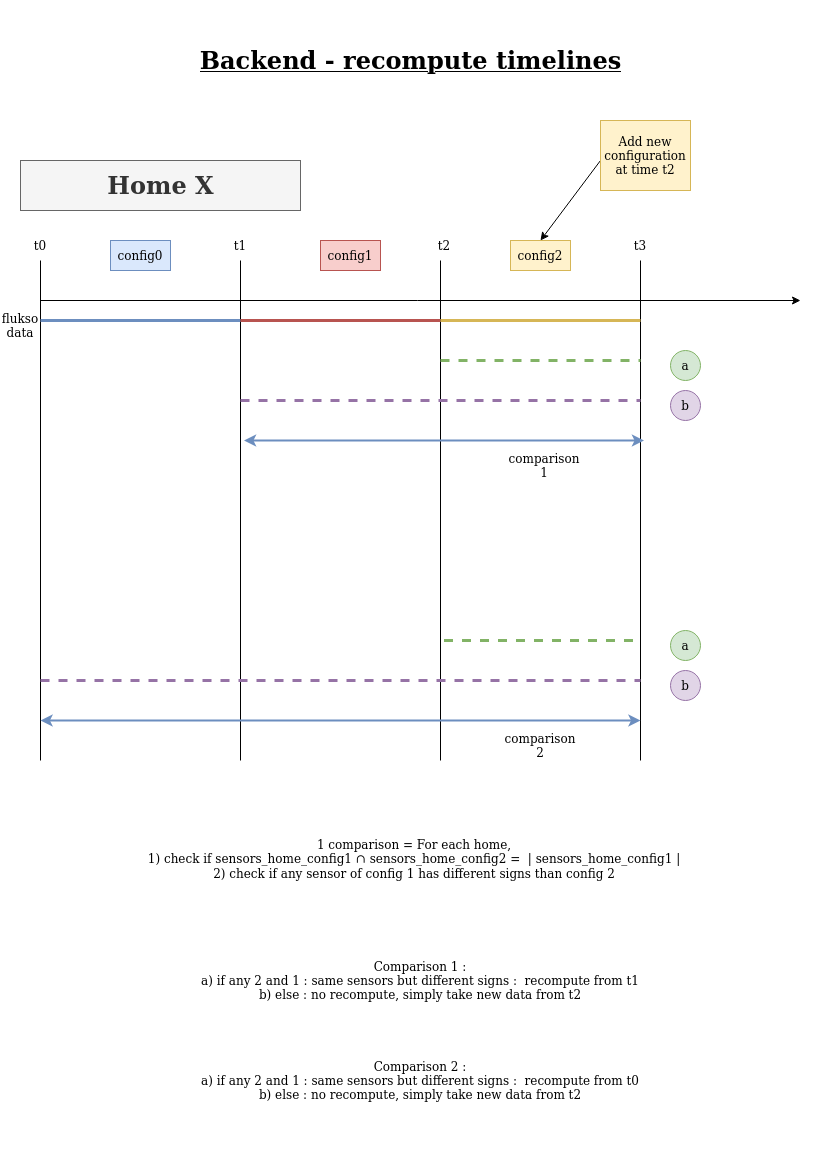
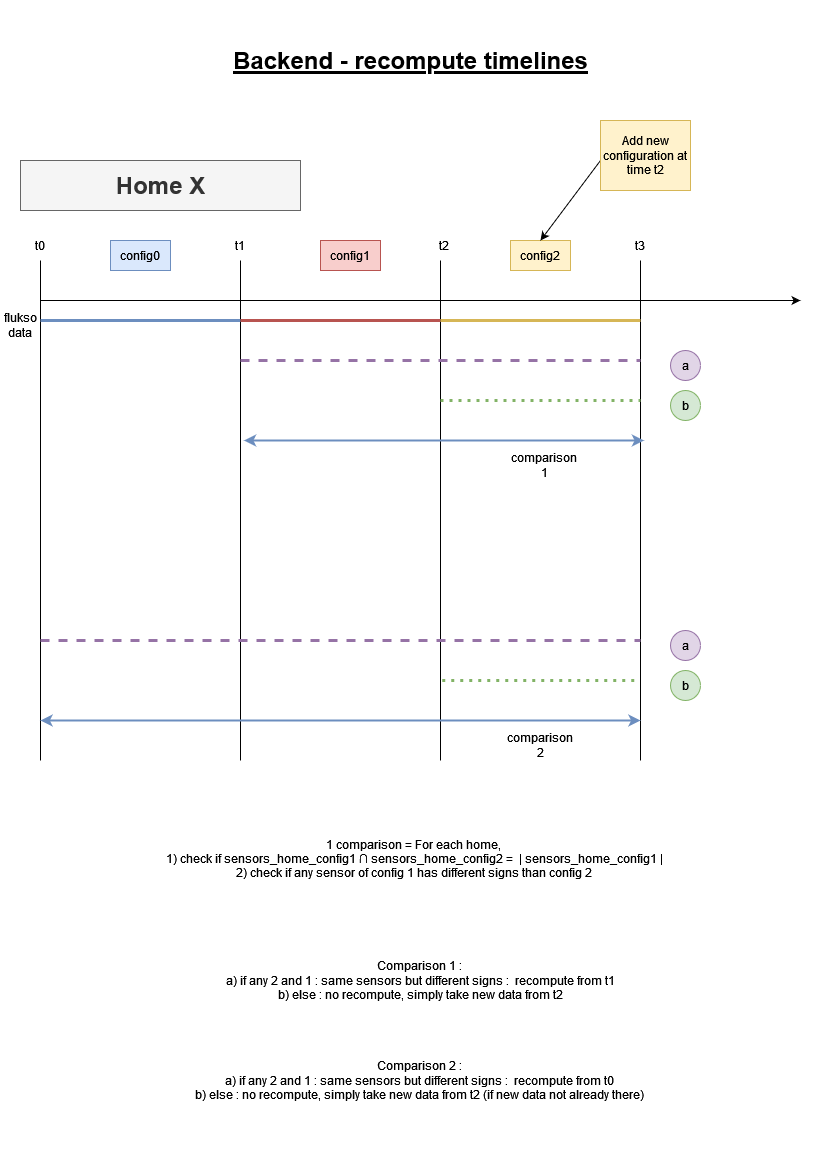
preprocessFluksoSensors : when adding new config, determine which homes to recompute w.r.t the previous config

diff --git a/preprocessFluksoSensors.py b/preprocessFluksoSensors.py
@@ -98,40 +98,70 @@ def getLastRegisteredConfig(cassandra_session, table_name):
 	return config
 
 
-def getHomesToRecompute(cassandra_session, table_name, config):
+def sameSigns(home1_sensors_df, home2_sensors_df):
 	""" 
-	Get the previous configuration and check for each home if a sign has changed in one of the
-	sensors : if yes, then we have to recompute all power data for this home based on the raw data
+	
 	"""
-	previous_config = getLastRegisteredConfig(cassandra_session, table_name)
+	res = True
+	for _, sid in enumerate(home1_sensors_df.index):
+		print(sid)
+		p = home1_sensors_df.loc[sid]["pro"]
+		n = home1_sensors_df.loc[sid]["net"]
+		c = home1_sensors_df.loc[sid]["con"]
+		print("p : {}, n : {}, c : {}".format(p, n, c))
+
+		found = home2_sensors_df[home2_sensors_df['sensor_id'].str.contains(sid)]
+
+		if len(found) > 0:
+			pp = home2_sensors_df.loc[home2_sensors_df["sensor_id"] == sid]["pro"].iloc[0]
+			nn = home2_sensors_df.loc[home2_sensors_df["sensor_id"] == sid]["net"].iloc[0]
+			cc = home2_sensors_df.loc[home2_sensors_df["sensor_id"] == sid]["con"].iloc[0]
+			print("pp : {}, nn : {}, cc : {}".format(pp, nn, cc))
+
+			if not (p == pp and n == nn and c == cc):
+				res = False
+				break 
+	
+	return res 
+
+
+def sameSensorsIds(hid, home1_sensors_df, home2_sensors_df):
+	""" 
+	Check if the 2 homes have the same number of sensors and the same sensors ids.
+	"""
+	print("---- {} ----".format(hid))
+	sid_home1 = set(home1_sensors_df.index)
+	sid_home2 = set(home2_sensors_df["sensor_id"].tolist())
+	print("sid prev config : ", sid_home1)
+	print("sid new config : ", sid_home2)
+	print("same sensors ids ? ", sid_home1 == sid_home2)
+
+	return sid_home1 == sid_home2
+
+
+def getHomesToRecompute(config, previous_config):
+	""" 
+	Get the previous configuration and check for each home if 
+	- it has the same sensors ids as the new config
+		- if yes, then we check a sign has changed in one of the sensors : 
+			- if yes, then we have to recompute all power data for this home based on the raw data
+	- else : we do not need to recompute the data
+	"""
 
 	print(config)
 
 	homes_modif = []
 	if previous_config is not None:
-		for hid, home_sensors in previous_config.getSensorsConfig().groupby("home_id"):
+		for hid, home1_sensors_df in previous_config.getSensorsConfig().groupby("home_id"):
 			print(hid)
-			print(home_sensors)
-			home_df = config.loc[config['home_ID'] == hid]
+			print(home1_sensors_df)
+			home2_sensors_df = config.loc[config['home_ID'] == hid]
 
-			for _, sid in enumerate(home_sensors.index):
-				print(sid)
-				p = home_sensors.loc[sid]["pro"]
-				n = home_sensors.loc[sid]["net"]
-				c = home_sensors.loc[sid]["con"]
-				print("p : {}, n : {}, c : {}".format(p, n, c))
-
-				found = home_df[home_df['sensor_id'].str.contains(sid)]
-
-				if len(found) > 0:
-					pp = home_df.loc[home_df["sensor_id"] == sid]["pro"].iloc[0]
-					nn = home_df.loc[home_df["sensor_id"] == sid]["net"].iloc[0]
-					cc = home_df.loc[home_df["sensor_id"] == sid]["con"].iloc[0]
-					print("pp : {}, nn : {}, cc : {}".format(pp, nn, cc))
-
-					if not (p == pp and n == nn and c == cc):
-						homes_modif.append(hid)
-						break 
+			# same sensors ids
+			if sameSensorsIds(hid, home1_sensors_df, home2_sensors_df):
+				# at least one sign is different
+				if not sameSigns(home1_sensors_df, home2_sensors_df):
+					homes_modif.append(hid)
 
 	print(homes_modif)
 
@@ -450,7 +480,9 @@ def main():
 	elif task == "new_config":
 		# > fill config tables using excel configuration file
 		print("new config : ")
-		homes_modif = getHomesToRecompute(cassandra_session, TBL_SENSORS_CONFIG, compact_df)
+		previous_config = getLastRegisteredConfig(cassandra_session, TBL_SENSORS_CONFIG)  # change to a loop
+		homes_modif = getHomesToRecompute(compact_df, previous_config)
+
 		# writeSensorsConfigCassandra(cassandra_session, compact_df, TBL_SENSORS_CONFIG, now)
 
 	elif task == "login_config":
